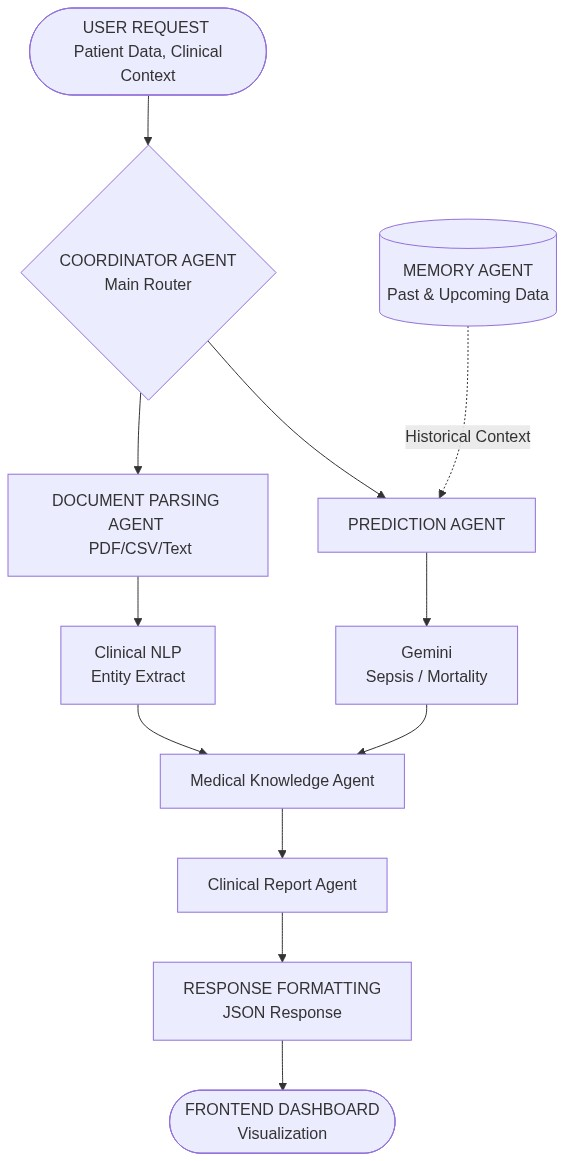
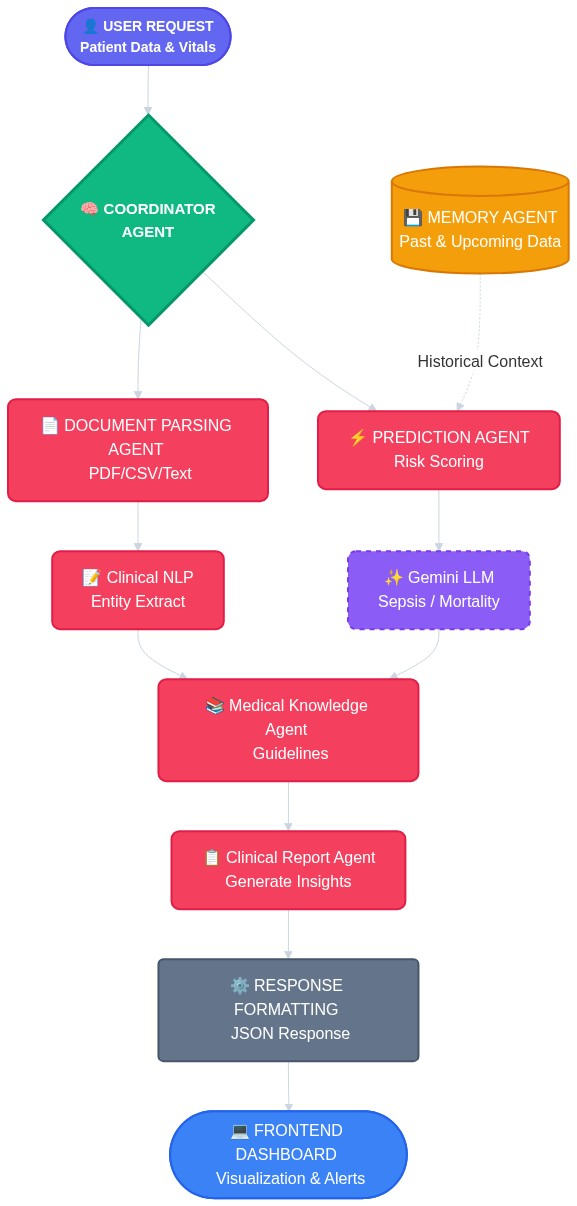
Enhance Multi-Agent Workflow diagram with gorgeous styling and emojis

diff --git a/scripts/download_mermaid.py b/scripts/download_mermaid.py
@@ -4,36 +4,55 @@ import urllib.request
 import os
 
 mermaid_code = """flowchart TD
-    User([USER REQUEST <br/> Patient Data, Clinical Context]) --> Coord{COORDINATOR AGENT <br/> Main Router}
+    %% Node Styling
+    classDef user fill:#6366f1,stroke:#4f46e5,stroke-width:2px,color:#fff,rx:10,ry:10,font-weight:bold,font-size:14px;
+    classDef coord fill:#10b981,stroke:#059669,stroke-width:3px,color:#fff,font-weight:bold,font-size:15px;
+    classDef agent fill:#f43f5e,stroke:#e11d48,stroke-width:2px,color:#fff,rx:8,ry:8;
+    classDef llm fill:#8b5cf6,stroke:#7c3aed,stroke-width:2px,color:#fff,rx:8,ry:8,stroke-dasharray: 5 5;
+    classDef ui fill:#3b82f6,stroke:#2563eb,stroke-width:2px,color:#fff,rx:12,ry:12;
+    classDef memory fill:#f59e0b,stroke:#d97706,stroke-width:2px,color:#fff;
+    classDef formatting fill:#64748b,stroke:#475569,stroke-width:2px,color:#fff,rx:5,ry:5;
+
+    %% Nodes
+    User([👤 USER REQUEST <br/> Patient Data & Vitals]):::user --> Coord{🧠 COORDINATOR <br/> AGENT}:::coord
     
     %% Document Parsing Flow
-    Coord --> Doc[DOCUMENT PARSING AGENT <br/> PDF/CSV/Text]
-    Doc --> NLP[Clinical NLP <br/> Entity Extract]
+    Coord --> Doc[📄 DOCUMENT PARSING AGENT <br/> PDF/CSV/Text]:::agent
+    Doc --> NLP[📝 Clinical NLP <br/> Entity Extract]:::agent
     
     %% Prediction Flow with Memory
-    Coord --> Pred[PREDICTION AGENT]
-    Memory[(MEMORY AGENT <br/> Past & Upcoming Data)] -.->|Historical Context| Pred
-    Pred --> GemS[Gemini <br/> Sepsis / Mortality]
+    Coord --> Pred[⚡ PREDICTION AGENT <br/> Risk Scoring]:::agent
+    Memory[(💾 MEMORY AGENT <br/> Past & Upcoming Data)]:::memory -.->|Historical Context| Pred
+    Pred --> GemS[✨ Gemini LLM <br/> Sepsis / Mortality]:::llm
     
     %% Interaction convergence (Prediction feeds into Knowledge)
-    GemS --> Know[Medical Knowledge Agent]
+    GemS --> Know[📚 Medical Knowledge Agent <br/> Guidelines]:::agent
     NLP --> Know
     
     %% Final output
-    Know --> Rep[Clinical Report Agent]
-    Rep --> Formatter[RESPONSE FORMATTING <br/> JSON Response]
+    Know --> Rep[📋 Clinical Report Agent <br/> Generate Insights]:::agent
+    Rep --> Formatter[⚙️ RESPONSE FORMATTING <br/> JSON Response]:::formatting
     
-    Formatter --> Dash([FRONTEND DASHBOARD <br/> Visualization])"""
+    Formatter --> Dash([💻 FRONTEND DASHBOARD <br/> Visualization & Alerts]):::ui
+"""
 
-# Create state object
+# Create state object with beautiful base theme
 state = {
     "code": mermaid_code,
-    "mermaid": {"theme": "default"}
+    "mermaid": {
+        "theme": "base",
+        "themeVariables": {
+            "fontFamily": "Inter, Roboto, sans-serif",
+            "primaryColor": "#ffffff",
+            "edgeLabelBackground": "#ffffff",
+            "tertiaryColor": "#f8fafc",
+            "lineColor": "#cbd5e1"
+        }
+    }
 }
 
 # Encode state to base64
 json_str = json.dumps(state)
-# Needs to be base64url encoded for mermaid.ink
 b64 = base64.urlsafe_b64encode(json_str.encode('utf-8')).decode('utf-8').rstrip("=")
 
 url = f"https://mermaid.ink/img/{b64}"